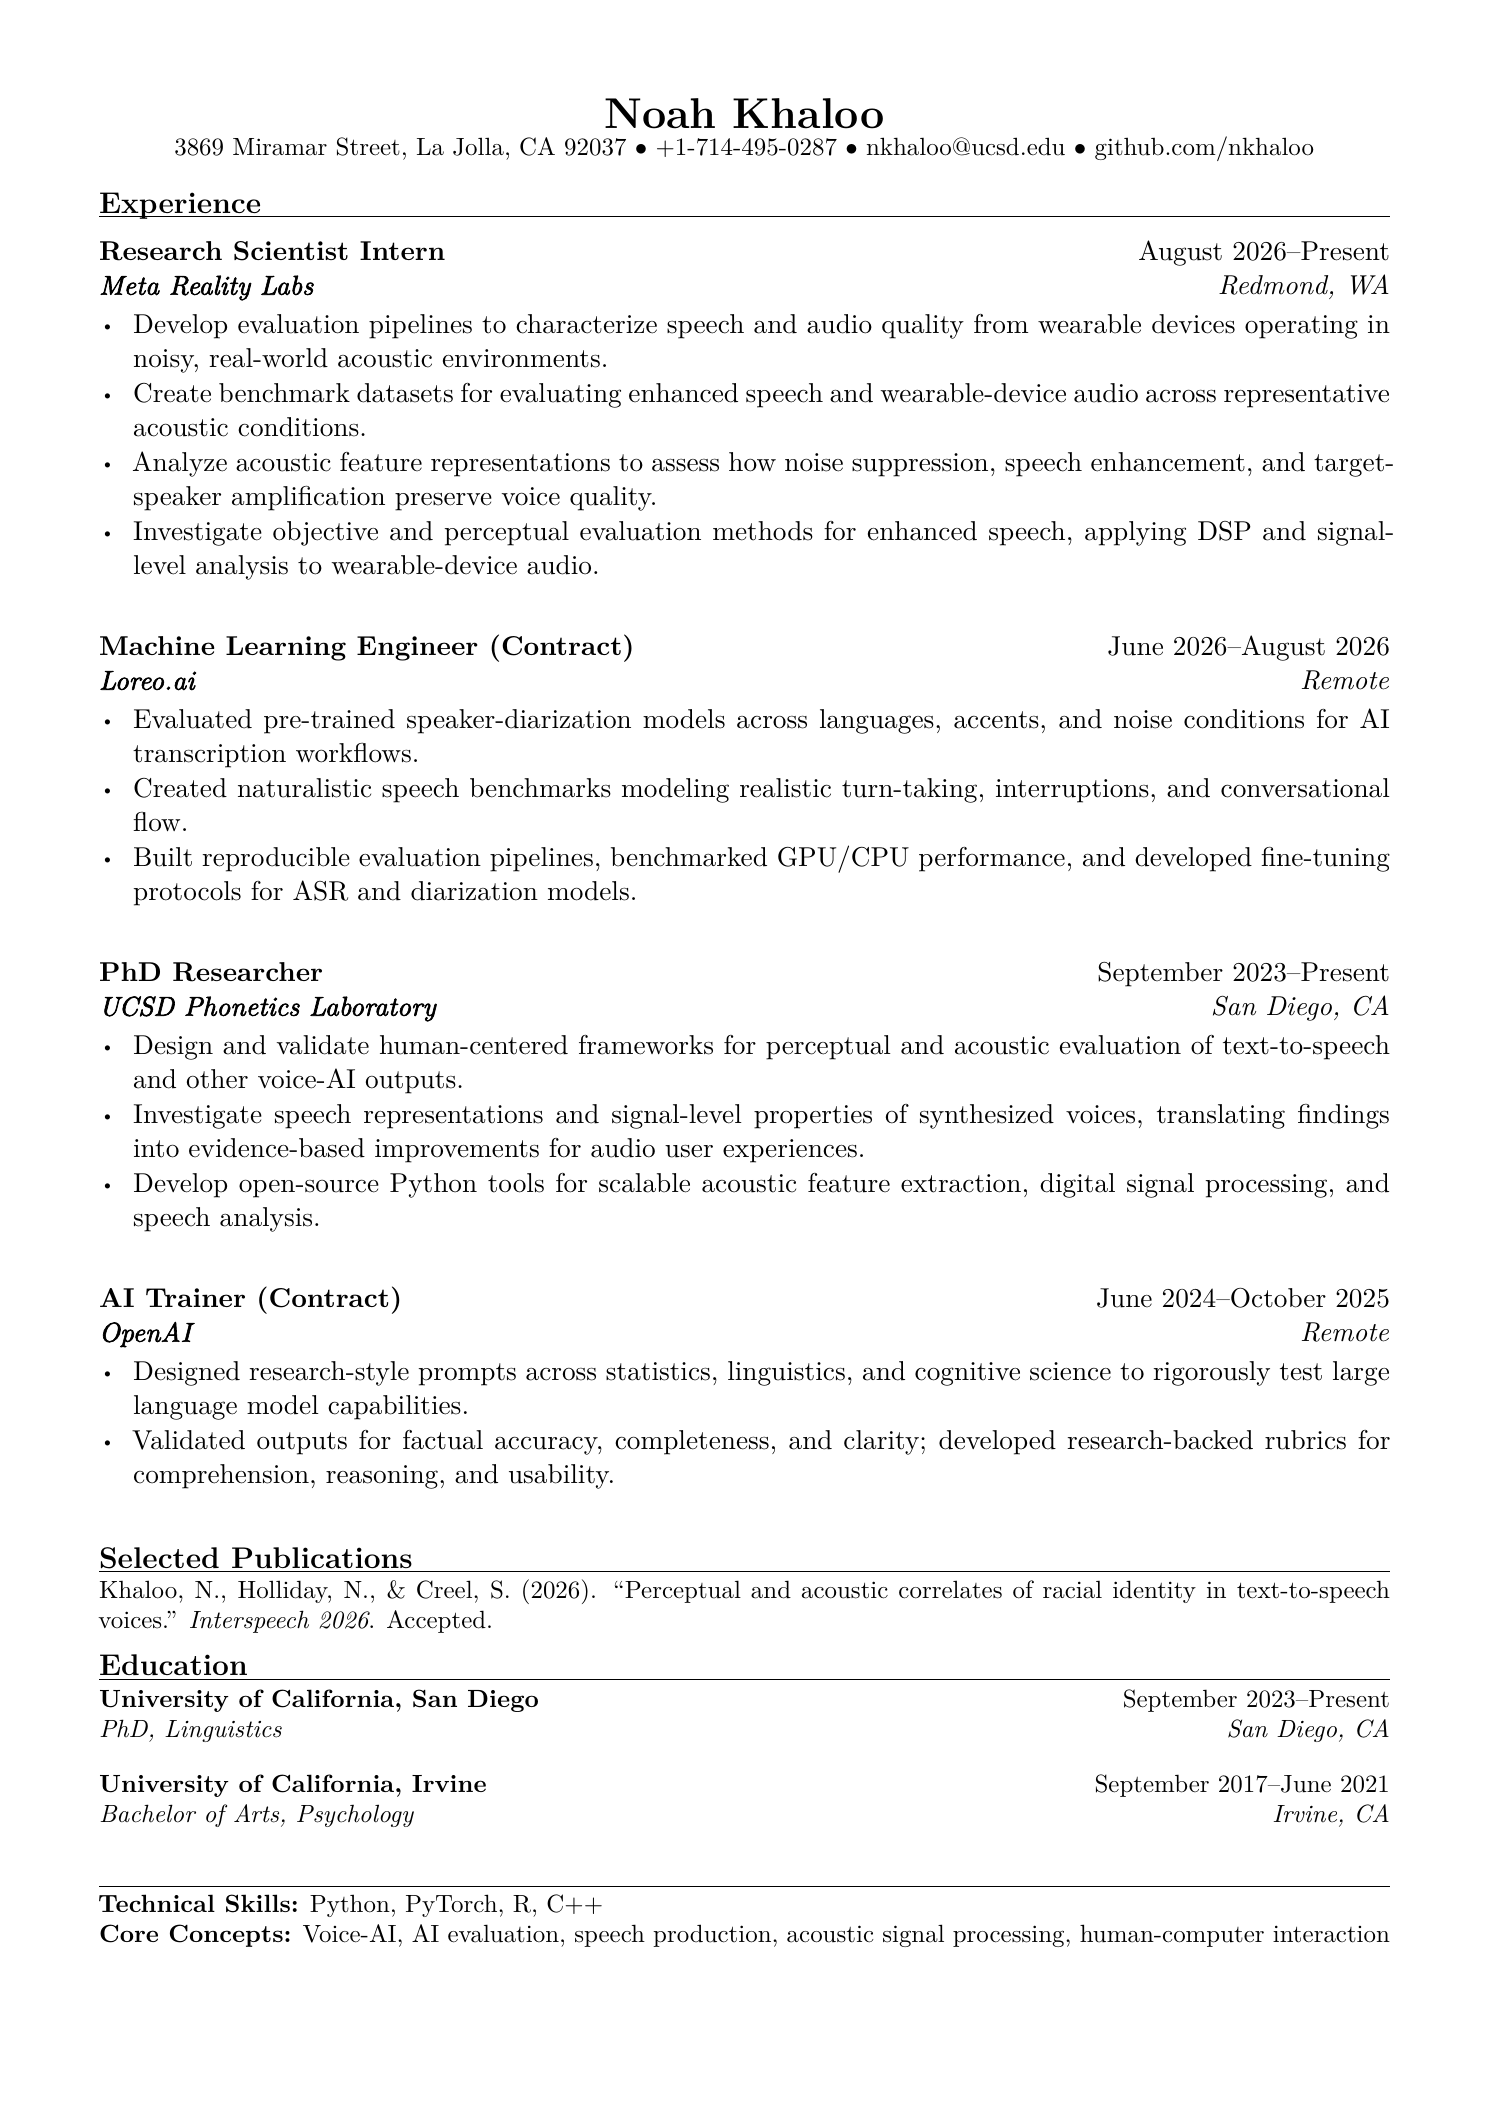
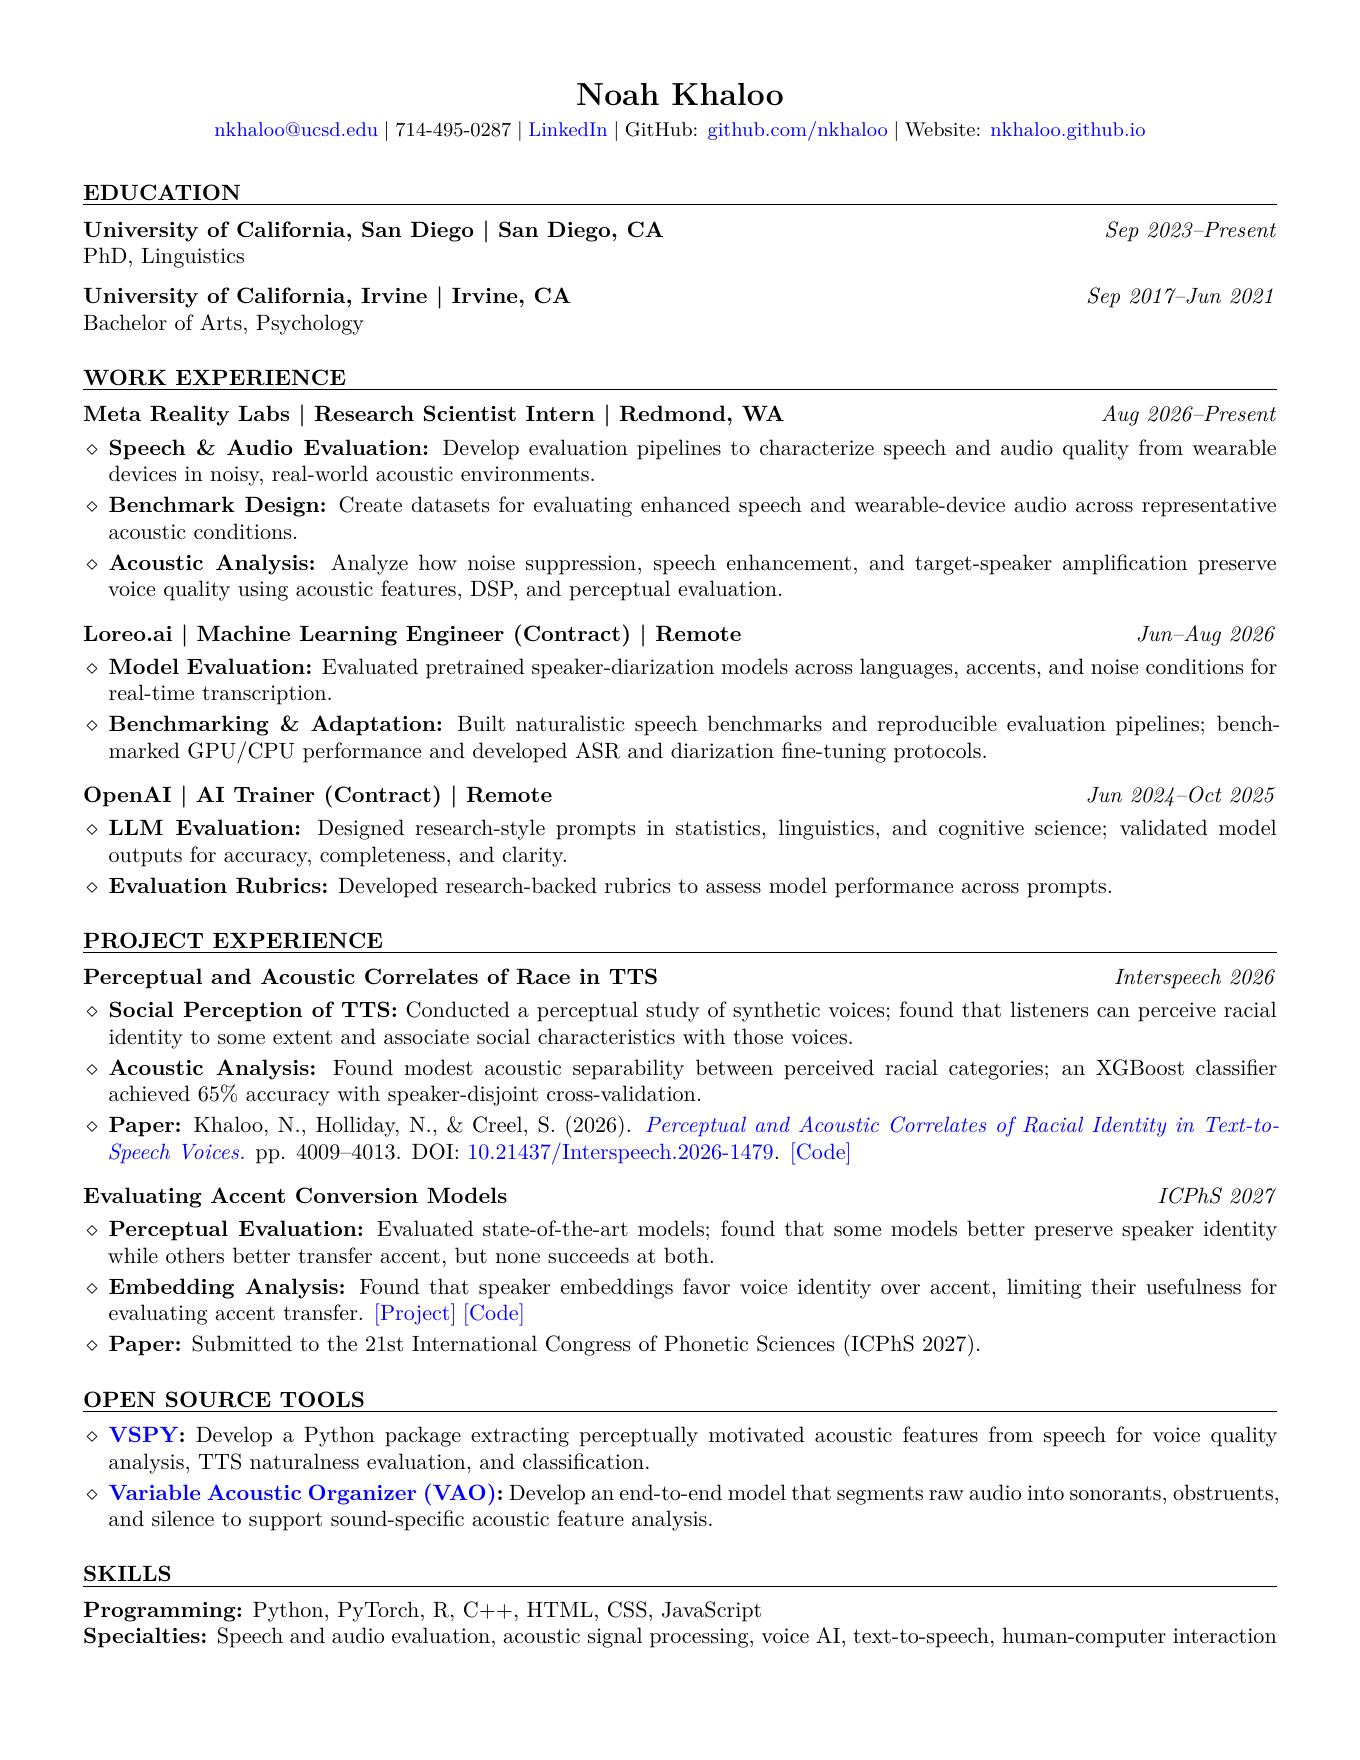
Update resume and link published Interspeech paper

Changed region(s): [[0.0618, 0.0312, 0.9265, 0.9375], [0.6176, 0.8438, 0.6485, 0.875]]

diff --git a/publications/index.html b/publications/index.html
@@ -37,7 +37,6 @@
         <section class="publication-group" aria-labelledby="accepted-heading">
           <h2 id="accepted-heading">Accepted</h2>
           <div class="publication-list">
-            <p>Khaloo, N., Holliday, N., &amp; Creel, S. (in press). Perceptual and acoustic correlates of racial identity in text-to-speech voices. <em>Proceedings of Interspeech</em>.</p>
             <p>Khaloo, N. (in press). A reanalysis of suprasegmental emphasis as vowel harmony in Jewish Neo-Aramaic. <em>Journal of Jewish Languages</em>.</p>
             <p>Khaloo, N., Bakit, M., &amp; Rose, S. (in press). A phonetic investigation of ejectives in Tigre. In B. Sands, M. Percival, A.-M. Fehn, &amp; J. Coburn (Eds.), <em>Non-pulmonic consonants</em> (Studies in Phonetics and Phonology). University of Toronto Press.</p>
           </div>
@@ -54,6 +53,7 @@
         <section class="publication-group" aria-labelledby="published-heading">
           <h2 id="published-heading">Published</h2>
           <div class="publication-list">
+            <p>Khaloo, N., Holliday, N., &amp; Creel, S. (2026). <a href="https://www.isca-archive.org/interspeech_2026/khaloo26_interspeech.pdf">Perceptual and acoustic correlates of racial identity in text-to-speech voices.</a> <em>Interspeech 2026</em>, 4009&ndash;4013. <a href="https://doi.org/10.21437/Interspeech.2026-1479">https://doi.org/10.21437/Interspeech.2026-1479</a></p>
             <p>Khaloo, N., &amp; Mayer, C. (2025). The acquisition of L2 English complex onsets by L1 Farsi speakers. <em>Laboratory Phonology</em>.</p>
           </div>
         </section>

diff --git a/projects/index.html b/projects/index.html
@@ -45,7 +45,7 @@
             <a class="project-card-image" href="tts-race/" aria-hidden="true" tabindex="-1">
               <img src="../assets/projects/tts-race/acoustic-feature-importance.png" alt="">
             </a>
-            <h3 id="project-1"><a href="tts-race/">Perceptual and Acoustic Correlates of Race in TTS</a> <span class="project-status">(Interspeech 2026, accepted)</span></h3>
+            <h3 id="project-1"><a href="tts-race/">Perceptual and Acoustic Correlates of Race in TTS</a> <span class="project-status">(Interspeech 2026, published)</span></h3>
           </article>
           <article class="project-section" aria-labelledby="project-2">
             <a class="project-card-image" href="voice-quality/" aria-hidden="true" tabindex="-1">

diff --git a/projects/tts-race/index.html b/projects/tts-race/index.html
@@ -33,6 +33,7 @@
     <main id="main" class="project-detail" tabindex="-1">
       <a class="back-link" href="../"><span aria-hidden="true">←</span> All projects</a>
       <h1>Perceptual and Acoustic Correlates of Race in TTS</h1>
+      <p class="project-resource"><a href="https://www.isca-archive.org/interspeech_2026/khaloo26_interspeech.pdf">Read the Interspeech 2026 paper (PDF)</a> &middot; DOI: <a href="https://doi.org/10.21437/Interspeech.2026-1479">10.21437/Interspeech.2026-1479</a></p>
       <p class="project-resource">Code and stimuli available here: <a href="https://github.com/nkhaloo/TTS_perception">GitHub</a></p>
 
       <div class="project-copy">

diff --git a/cv/index.html b/cv/index.html
@@ -31,7 +31,8 @@
       </nav>
     </header>
     <main id="main" class="resume-page" tabindex="-1" aria-label="Resume">
-      <img src="../assets/noah-khaloo-resume.png?v=4a4f3a972887" alt="Noah Khaloo's resume">
+      <p style="text-align: center; margin: 0 0 20px;"><a href="../assets/Noah_Khaloo_Resume.pdf?v=2306af131438" download>Download resume (PDF)</a></p>
+      <img src="../assets/noah-khaloo-resume.png?v=2306af131438" alt="Noah Khaloo's resume">
     </main>
     <footer class="footer">
       <div class="footer-inner"><!-- Add your copyright here. --></div>
